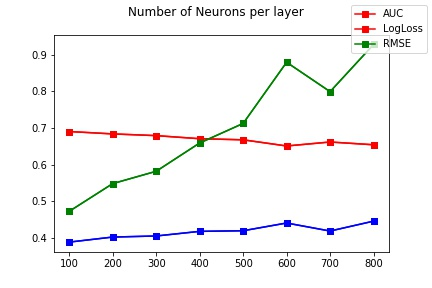
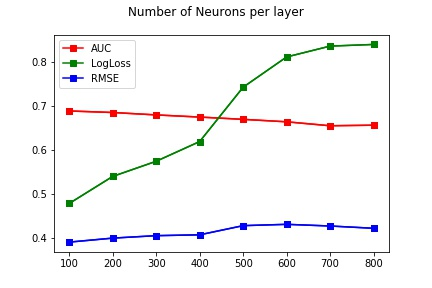
corrected label legend

diff --git a/ws.py b/ws.py
@@ -1,6 +1,9 @@
 # -*- coding: utf-8 -*-
 """
-@author: Carlos
+@author: Carlos Quendera 49946
+@author: David Pais 50220
+@author: Rebekka Gorge N º 59055
+            
 """
 import time
 
@@ -225,7 +228,8 @@ def test_FNN_criteo(data,train,test):
     test_model_input = {name:test[name] for name in feature_names}
     
     true_y = test[target_label].values
-    
+   
+       
     print("\t\t-- ACTIVATION FUNCTIONS --\t\t")
     for dnn_activation in dnn_activation_list:
         print("\nTesting {dnn_activation}...".format(dnn_activation = dnn_activation))
@@ -260,7 +264,8 @@ def test_FNN_criteo(data,train,test):
         results_dropout["logloss"].append(logloss)
         results_dropout["rmse"].append(rmse)
 
-        
+   
+
     print("\t\t-- HIDDEN UNITS --\t\t")
     for dnn_hidden_units in dnn_hidden_units_list:
         print("\nTesting {dnn_hidden_units}...".format(dnn_hidden_units = dnn_hidden_units))
@@ -282,6 +287,8 @@ def test_FNN_criteo(data,train,test):
         create_plots("FNN", "criteo", results_activation_function, "Activation Function", "activation_func", dnn_activation_list)
         create_plots("FNN", "criteo", results_dropout, "Dropout Rate", "dropout", dnn_dropout_list)
         create_plots("FNN", "criteo", results_number_of_neurons, "Number of Neurons per layer", "nr_neurons", dnn_hidden_units_list)
+
+
 
 def test_DFM_criteo(data,train,test):
     print("\nTesting DFM on criteo dataset...\n")
@@ -627,10 +634,13 @@ def test_DFM_avazu(data,train,test):
 def create_plots(algorithm, dataset_name, results, title, filename, x): 
 
     fig, ax = plt.subplots()
-    ax.plot(x, results["auc"], marker = "s", color = "r")
-    ax.plot(x, results["logloss"], marker = "s", color = "g")
-    ax.plot(x, results["rmse"], marker = "s", color = "b")
-    fig.legend(["AUC", "LogLoss", "RMSE"])
+    ax.plot(x, results["auc"], marker = "s", color = "r", label = "AUC")
+    ax.plot(x, results["logloss"], marker = "s", color = "g", label = "LogLoss")
+    ax.plot(x, results["rmse"], marker = "s", color = "b", label = "RMSE")
+    ax.legend()
+    handles, labels = ax.get_legend_handles_labels()
+    lgd = dict(zip(labels, handles))
+    ax.legend(lgd.values(), lgd.keys())
     fig.suptitle(title)
     ax.figure.savefig("./plots/{dataset_name}/{algorithm}/{filename}_{algorithm}.jpg".format(algorithm = algorithm, dataset_name = dataset_name, filename = filename))
     
@@ -645,10 +655,10 @@ if __name__ == "__main__":
     test_FNN_criteo(data_criteo,train_criteo,test_criteo)
     test_FNN_avazu(data_avazu,train_avazu,test_avazu)
     
-    # test_PNN_criteo(data_criteo, train_criteo, test_criteo)
-    # test_PNN_avazu(data_avazu,train_avazu,test_avazu)
+    test_PNN_criteo(data_criteo, train_criteo, test_criteo)
+    test_PNN_avazu(data_avazu,train_avazu,test_avazu)
     
-    # test_DFM_criteo(data_criteo, train_criteo, test_criteo)
-    # test_DFM_avazu(data_avazu,train_avazu,test_avazu)
+    test_DFM_criteo(data_criteo, train_criteo, test_criteo)
+    test_DFM_avazu(data_avazu,train_avazu,test_avazu)
         
     print("Program ended in {time} seconds.".format(time = round(time.time() - start_time, 2)))

diff --git a/metrics.py b/metrics.py
@@ -1,8 +1,9 @@
 # -*- coding: utf-8 -*-
 """
-@author: Carlos
-
-
+@author: Carlos Quendera 49946
+@author: David Pais 50220
+@author: Rebekka Gorge N º 59055
+            
 Metrics: 
     - AUC
     - Log Loss

diff --git a/test.py b/test.py
@@ -1,6 +1,9 @@
 # -*- coding: utf-8 -*-
 """
-@author: Carlos
+@author: Carlos Quendera 49946
+@author: David Pais 50220
+@author: Rebekka Gorge N º 59055
+            
 """
 
 from datetime import datetime
